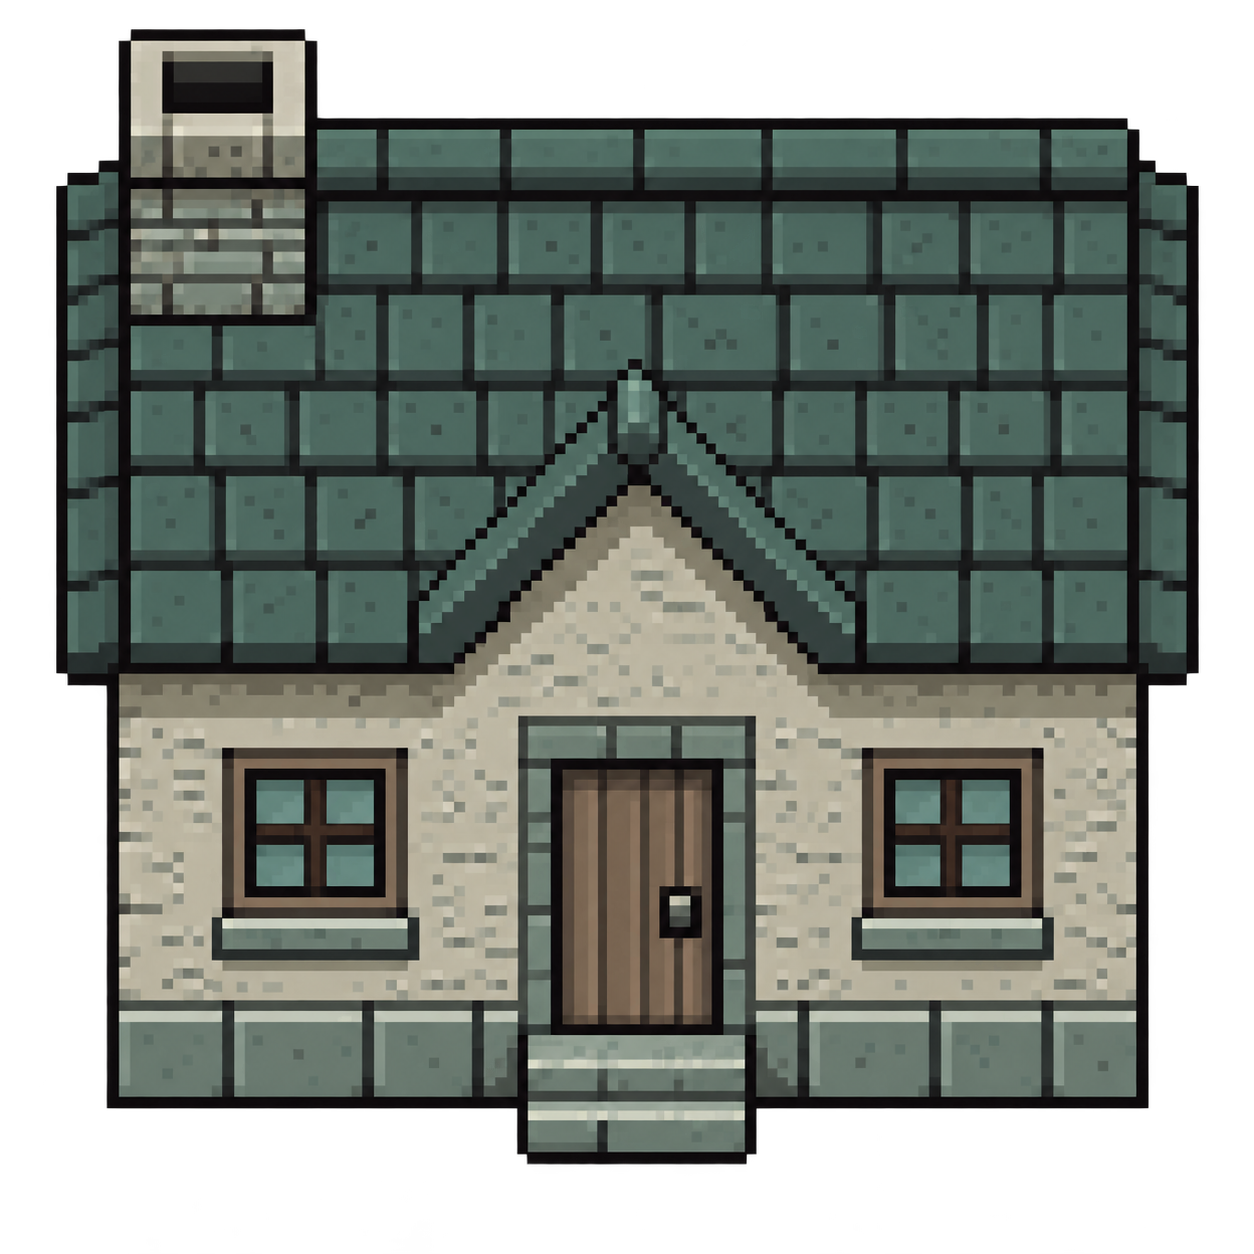
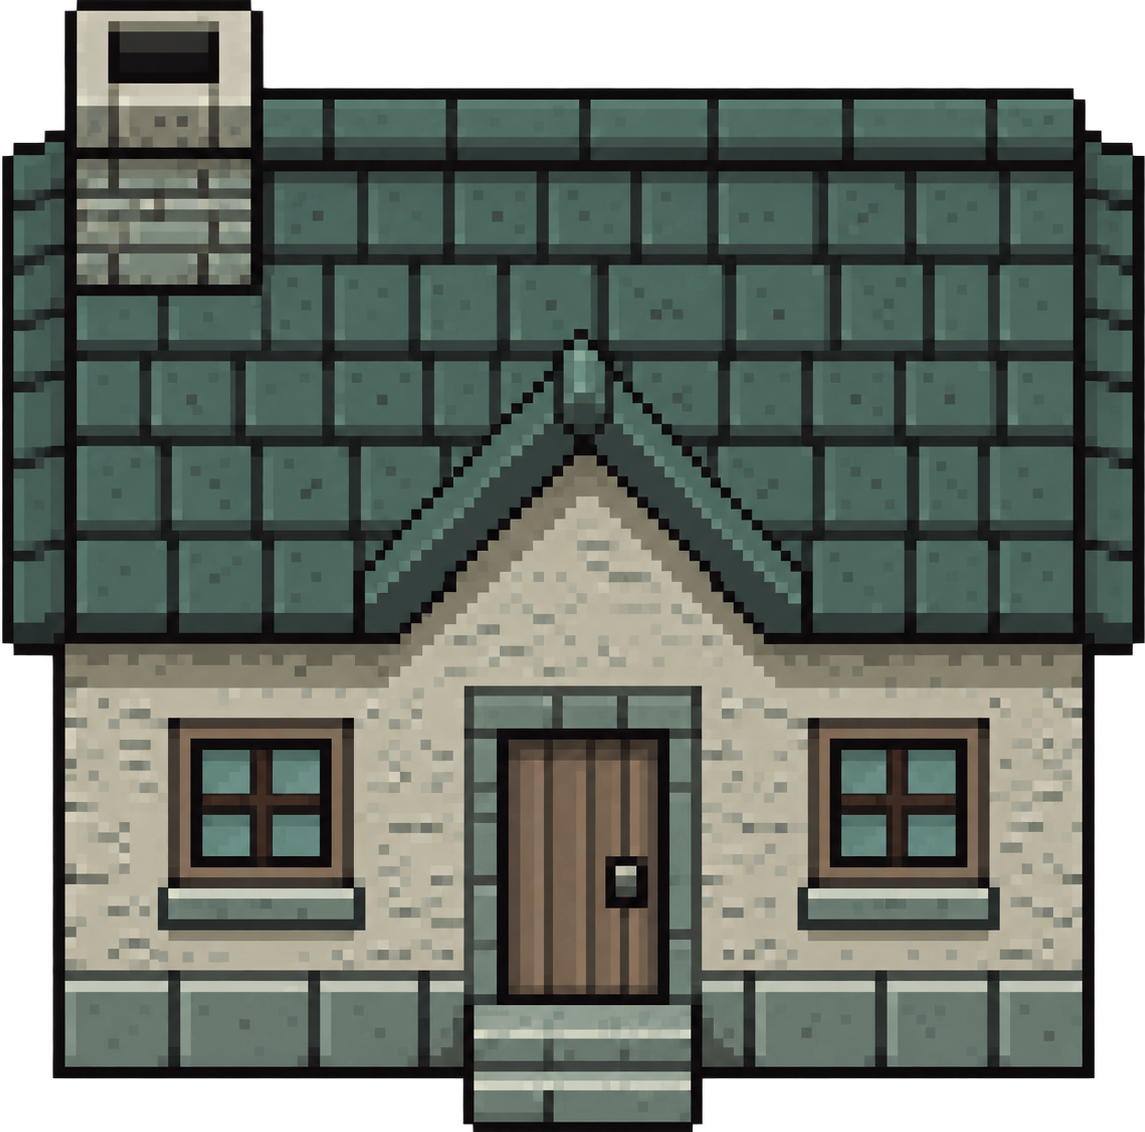
feat: atualiza artes da fronteira neutra

diff --git a/src/main/java/com/alemdoequilibrio/game/ZoneManager.java b/src/main/java/com/alemdoequilibrio/game/ZoneManager.java
@@ -35,10 +35,10 @@ public class ZoneManager {
             40;
 
     static final double NEUTRAL_HOUSE_X =
-            320;
+            450;
 
     static final double NEUTRAL_HOUSE_Y =
-            400;
+            420;
 
     static final double NEUTRAL_HOUSE_WIDTH =
             280;
@@ -219,10 +219,10 @@ public class ZoneManager {
          */
         createExitArea(
                 "Trilha dos Isolantes",
-                1560,
-                640,
-                40,
-                40
+                1595,
+                600,
+                5,
+                120
         );
     }
 
